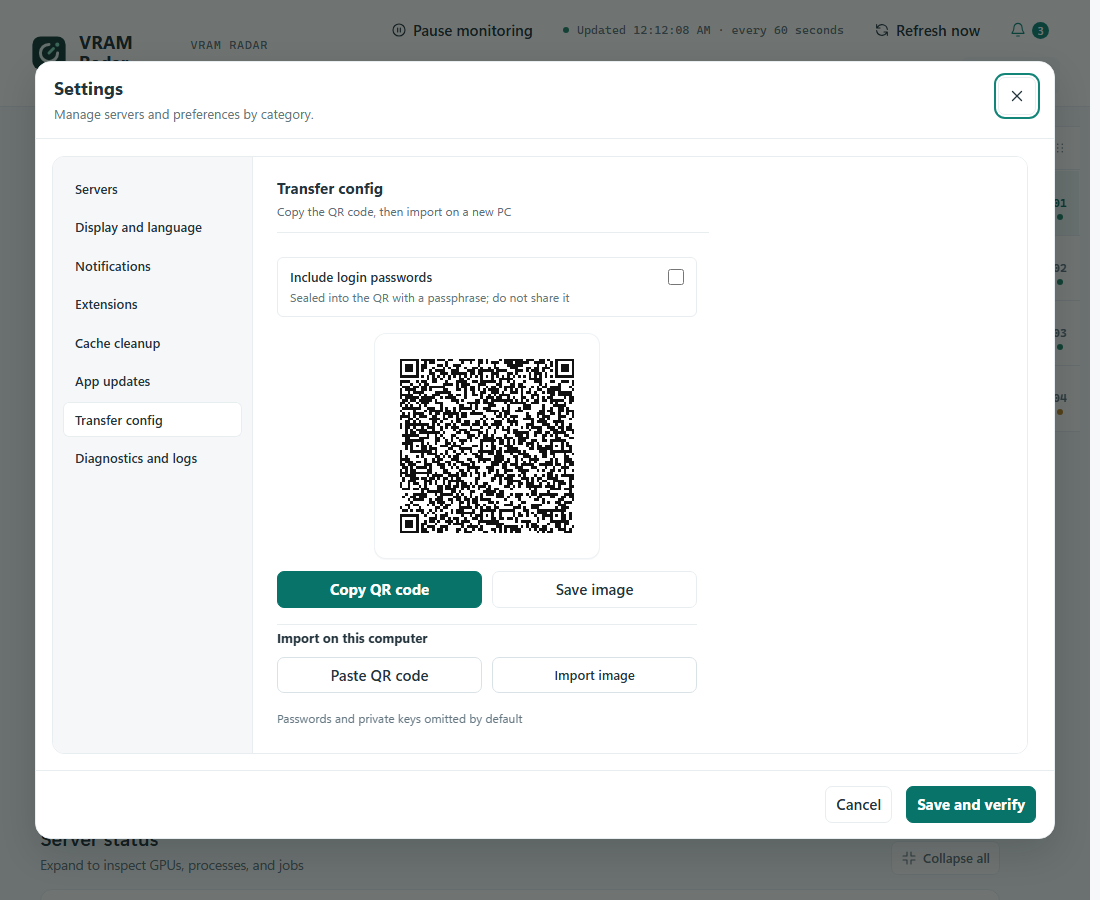
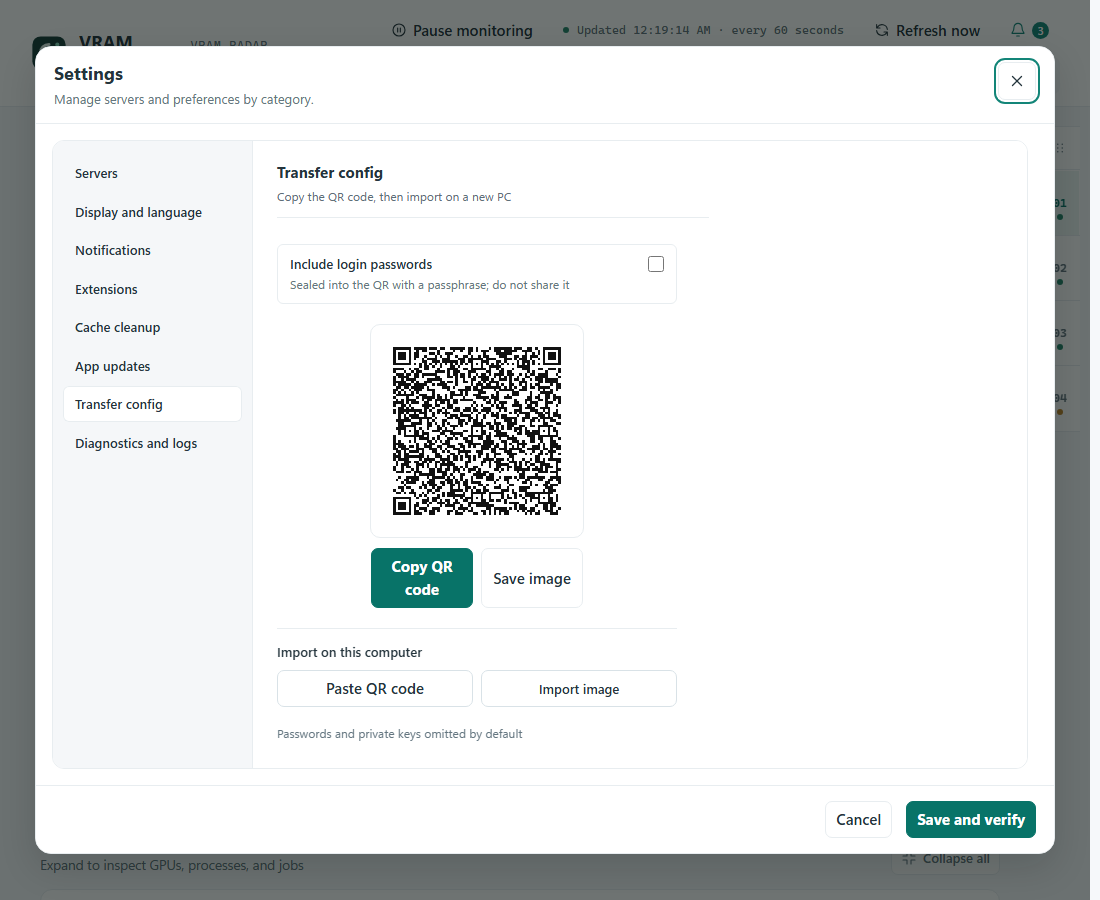
Polish migrate pane spacing, QR frame, and button rhythm.
Subtle Settings transfer refinements only: align export actions under the
QR, quiet the frame, and even out vertical gaps. No behavior change.

diff --git a/src/vram_radar/web/app.css b/src/vram_radar/web/app.css
@@ -1779,14 +1779,14 @@ html::-webkit-scrollbar-button, .dialog-content::-webkit-scrollbar-button, .serv
 }
 .settings-pane-migrate .migrate-panel-body {
   display: grid;
-  gap: 16px;
-  padding: 2px 0 0;
-  max-width: 420px;
+  gap: 18px;
+  padding: 4px 0 0;
+  max-width: 400px;
   justify-items: stretch;
 }
 .settings-pane-migrate .migrate-options {
   display: grid;
-  gap: 10px;
+  gap: 8px;
   width: 100%;
 }
 .settings-pane-migrate .migrate-check {
@@ -1798,10 +1798,10 @@ html::-webkit-scrollbar-button, .dialog-content::-webkit-scrollbar-button, .serv
   gap: 10px;
   width: 100%;
   margin: 0;
-  padding: 12px;
+  padding: 10px 12px;
   border: 1px solid var(--border);
-  border-radius: 8px;
-  background: color-mix(in srgb, var(--surface-2) 58%, var(--surface));
+  border-radius: 6px;
+  background: color-mix(in srgb, var(--surface-2) 50%, var(--surface));
   box-sizing: border-box;
 }
 .settings-pane-migrate .migrate-passphrase-grid {
@@ -1811,7 +1811,7 @@ html::-webkit-scrollbar-button, .dialog-content::-webkit-scrollbar-button, .serv
 }
 .settings-pane-migrate .migrate-field {
   display: grid;
-  gap: 6px;
+  gap: 5px;
   margin: 0;
   max-width: none;
   font-size: var(--font-caption);
@@ -1839,10 +1839,10 @@ html::-webkit-scrollbar-button, .dialog-content::-webkit-scrollbar-button, .serv
 }
 .settings-pane-migrate .migrate-secret-warn {
   margin: 0;
-  padding: 8px 10px;
+  padding: 7px 10px;
   border-radius: 6px;
-  border: 1px solid color-mix(in srgb, var(--amber, #c47d1a) 32%, var(--border));
-  background: color-mix(in srgb, var(--amber, #c47d1a) 9%, var(--surface));
+  border: 1px solid color-mix(in srgb, var(--amber, #c47d1a) 28%, var(--border));
+  background: color-mix(in srgb, var(--amber, #c47d1a) 8%, var(--surface));
   color: var(--text);
   font-size: 12px;
   line-height: 1.45;
@@ -1850,9 +1850,10 @@ html::-webkit-scrollbar-button, .dialog-content::-webkit-scrollbar-button, .serv
 }
 .settings-pane-migrate .migrate-qr-block {
   display: grid;
-  gap: 12px;
-  justify-items: stretch;
+  gap: 10px;
+  justify-items: center;
   width: 100%;
+  padding-top: 2px;
 }
 .settings-pane-migrate .migrate-qr-wrap {
   display: grid;
@@ -1862,33 +1863,37 @@ html::-webkit-scrollbar-button, .dialog-content::-webkit-scrollbar-button, .serv
 .settings-pane-migrate .migrate-qr-frame {
   display: grid;
   place-items: center;
-  padding: 14px;
-  border-radius: 12px;
+  padding: 12px;
+  border-radius: 10px;
   background: #fff;
-  border: 1px solid color-mix(in srgb, var(--border) 70%, transparent);
-  box-shadow: 0 1px 0 color-mix(in srgb, var(--border) 40%, transparent);
+  border: 1px solid var(--border);
 }
 .settings-pane-migrate .migrate-qr-wrap canvas {
-  width: 196px;
-  height: 196px;
+  width: 188px;
+  height: 188px;
   display: block;
   background: #fff;
-  border-radius: 4px;
+  border-radius: 2px;
   image-rendering: pixelated;
 }
 .settings-pane-migrate .migrate-actions {
   display: grid;
   grid-template-columns: 1fr 1fr;
-  gap: 10px;
+  gap: 8px;
   width: 100%;
   align-items: stretch;
+}
+.settings-pane-migrate .migrate-actions-export {
+  width: min(100%, 212px); /* canvas 188 + frame pad 12*2 */
 }
 .settings-pane-migrate .migrate-actions .button,
 .settings-pane-migrate .migrate-actions .migrate-file-button {
   width: 100%;
   min-width: 0;
+  min-height: 34px;
   justify-content: center;
   text-align: center;
+  box-sizing: border-box;
 }
 .settings-pane-migrate .migrate-actions-export #migrate-export-file {
   grid-column: 1 / -1;
@@ -1904,20 +1909,21 @@ html::-webkit-scrollbar-button, .dialog-content::-webkit-scrollbar-button, .serv
   display: grid;
   gap: 10px;
   width: 100%;
-  padding-top: 4px;
+  margin-top: 2px;
+  padding-top: 14px;
   border-top: 1px solid var(--border);
 }
 .settings-pane-migrate .migrate-section-title {
   margin: 0;
   font-size: 13px;
-  font-weight: 650;
+  font-weight: 600;
   color: var(--text);
   letter-spacing: 0;
   line-height: 1.35;
 }
 .settings-pane-migrate .migrate-import-block {
   display: grid;
-  gap: 10px;
+  gap: 8px;
   width: 100%;
   justify-items: stretch;
 }
@@ -1935,7 +1941,7 @@ html::-webkit-scrollbar-button, .dialog-content::-webkit-scrollbar-button, .serv
 .settings-pane-migrate .migrate-status {
   margin: 0;
   width: 100%;
-  padding: 8px 12px;
+  padding: 7px 10px;
   border-radius: 6px;
   border: 1px solid var(--border);
   background: color-mix(in srgb, var(--surface-2) 70%, var(--surface));
@@ -1944,6 +1950,10 @@ html::-webkit-scrollbar-button, .dialog-content::-webkit-scrollbar-button, .serv
   line-height: 1.45;
   text-align: left;
   box-sizing: border-box;
+}
+.settings-pane-migrate .migrate-qr-block > .migrate-status {
+  width: min(100%, 212px);
+  text-align: center;
 }
 .settings-pane-migrate .migrate-status.is-error {
   border-color: color-mix(in srgb, var(--red) 35%, var(--border));
@@ -1968,25 +1978,34 @@ html::-webkit-scrollbar-button, .dialog-content::-webkit-scrollbar-button, .serv
 .settings-pane-migrate .migrate-panel-body.is-compact .migrate-qr-block {
   grid-template-columns: auto minmax(0, 1fr);
   align-items: center;
-  gap: 14px;
+  justify-items: stretch;
+  gap: 12px;
+  padding-top: 0;
 }
 .settings-pane-migrate .migrate-panel-body.is-compact .migrate-qr-wrap {
   justify-items: start;
+  width: auto;
 }
 .settings-pane-migrate .migrate-panel-body.is-compact .migrate-qr-frame {
   padding: 10px;
-  border-radius: 10px;
+  border-radius: 8px;
 }
 .settings-pane-migrate .migrate-panel-body.is-compact .migrate-qr-wrap canvas {
-  width: 148px;
-  height: 148px;
+  width: 144px;
+  height: 144px;
 }
 .settings-pane-migrate .migrate-panel-body.is-compact .migrate-actions-export {
+  width: 100%;
   grid-template-columns: 1fr;
   gap: 8px;
 }
+.settings-pane-migrate .migrate-panel-body.is-compact .migrate-qr-block > .migrate-status {
+  width: 100%;
+  grid-column: 1 / -1;
+  text-align: left;
+}
 .settings-pane-migrate .migrate-panel-body.is-compact .migrate-passphrase-fields {
-  padding: 10px;
+  padding: 10px 12px;
   gap: 8px;
 }
 
@@ -1994,4 +2013,8 @@ html::-webkit-scrollbar-button, .dialog-content::-webkit-scrollbar-button, .serv
   .settings-pane-migrate .migrate-passphrase-grid {
     grid-template-columns: 1fr;
   }
+  .settings-pane-migrate .migrate-actions-export {
+    width: 100%;
+  }
+}
 }

diff --git a/src/vram_radar/web/app.js b/src/vram_radar/web/app.js
@@ -5362,7 +5362,7 @@ function drawMigrateQr(token) {
   }
   const modules = qr.getModuleCount();
   const quiet = 4; // modules of white border
-  const target = 196;
+  const target = 188;
   const cell = Math.max(3, Math.floor(target / (modules + quiet * 2)));
   const size = cell * (modules + quiet * 2);
   canvas.width = size;
